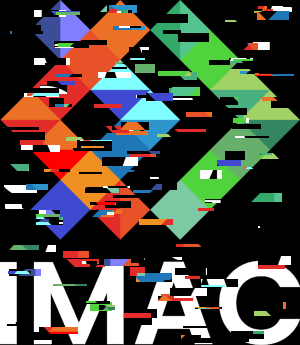
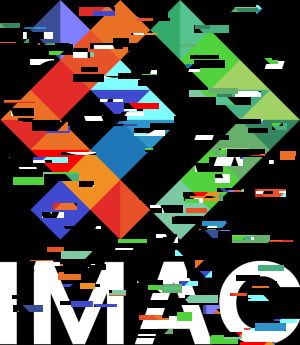
Amélioration de vortex
Ajout des paramètres de forme et d'intensité

diff --git a/src/workshop.cpp b/src/workshop.cpp
@@ -301,7 +301,7 @@ glm::vec2 rotated(glm::vec2 point, glm::vec2 center_of_rotation, float angle) {
     return glm::vec2{glm::rotate(glm::mat3{1.f}, angle) * glm::vec3{point - center_of_rotation, 0.f}} + center_of_rotation;
 }
 
-void vortex(sil::Image image) {
+void vortex(sil::Image image, forme forme, unsigned int intensite) {
     sil::Image nouvelleImage{image.width(), image.height()};
 
     glm::vec2 center {image.width()/2, image.height()/2};
@@ -313,7 +313,16 @@ void vortex(sil::Image image) {
     {
         for (int y{0}; y < image.height(); y++)
         {
-            point = rotated({x,y}, center, (angle * ((abs(center[0] - x))/image.width()/2 + abs(center[1] - y)/image.height()/2) * 100));
+            if (forme == forme::losange)
+            {
+                point = rotated({x,y}, center, (angle * ((abs(center[0] - x))/image.width()/2 + abs(center[1] - y)/image.height()/2) * intensite));
+            }
+            else if (forme == forme::ciculaire)
+            {
+                point = rotated({x,y}, center, sqrt(pow(abs(center[0] - x),2.0) + pow(abs(center[1] - y), 2.0)) * intensite);
+            }
+            
+            
             if (0 <= point[0] && point[0] < image.width() && 0 <= point[1] && point[1] < image.height())
             {
                 nouvelleImage.pixel(x,y) = image.pixel(point[0], point[1]);
@@ -348,7 +357,7 @@ void heightMap(sil::Image image);
 
 //Bonus
 
-void caléidoscope(sil::Image image) {
+void caleidoscope(sil::Image image) {
     sil::Image nouvelleImage{image.width(), image.height()};
 
     glm::vec2 center {image.width()/2, image.height()/2};
@@ -367,7 +376,7 @@ void caléidoscope(sil::Image image) {
             }
         }
     }
-    nouvelleImage.save("output/caléidoscope.png");
+    nouvelleImage.save("output/caleidoscope.png");
 }
 
 void reflet(sil::Image image) {

diff --git a/src/workshop.hpp b/src/workshop.hpp
@@ -108,7 +108,9 @@ void fractaleMandelbrot(sil::Image image);
 
 glm::vec2 rotated(glm::vec2 point, glm::vec2 center_of_rotation, float angle);
 
-void vortex(sil::Image image);
+enum forme {ciculaire, losange};
+
+void vortex(sil::Image image, forme forme, unsigned int intensite);
 
 void tramage(sil::Image image);
 
@@ -135,7 +137,7 @@ void heightMap(sil::Image image);
 
 //Bonus
 
-void caléidoscope(sil::Image image);
+void caleidoscope(sil::Image image);
 
 void reflet(sil::Image image);
 
